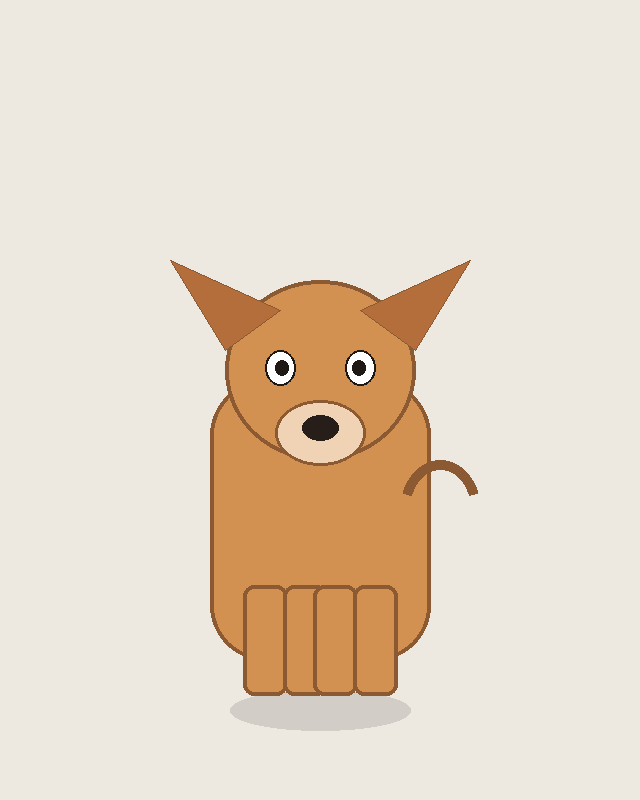
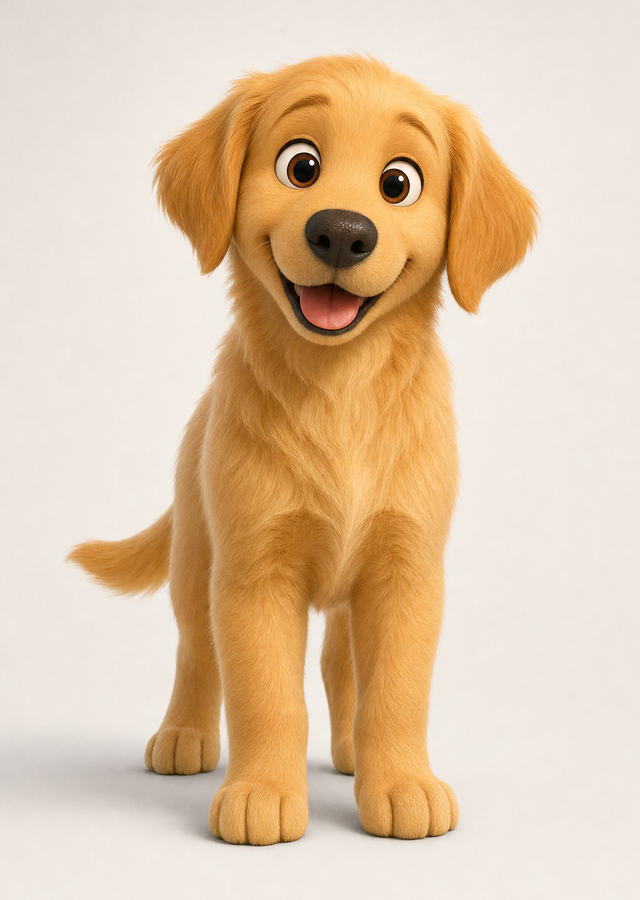
feat(onboarding): guias Pixar 3D para fotos do amigo (dog/cat/toy)
Substitui placeholders flat por renders estilo Pixar alinhados às guias
da criança; GUIDE_ASSET_VERSION v8.

diff --git a/src/lib/onboarding/child-profile.ts b/src/lib/onboarding/child-profile.ts
@@ -7,7 +7,7 @@ export const GENDER_LABELS: Record<"boy" | "girl", string> = {
 };
 
 /** Cache-bust quando as guias 3D mudam (evita SVG flat antigo no browser). */
-export const GUIDE_ASSET_VERSION = "7";
+export const GUIDE_ASSET_VERSION = "8";
 
 export function guideFolderForGender(
   gender: ChildGender | null | undefined,
